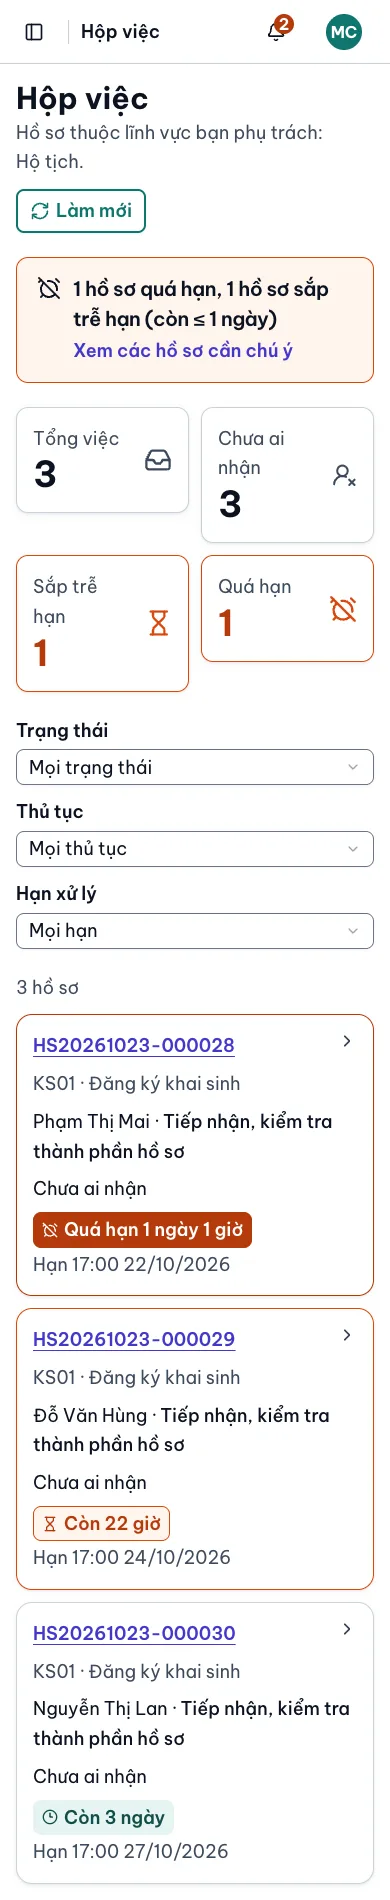
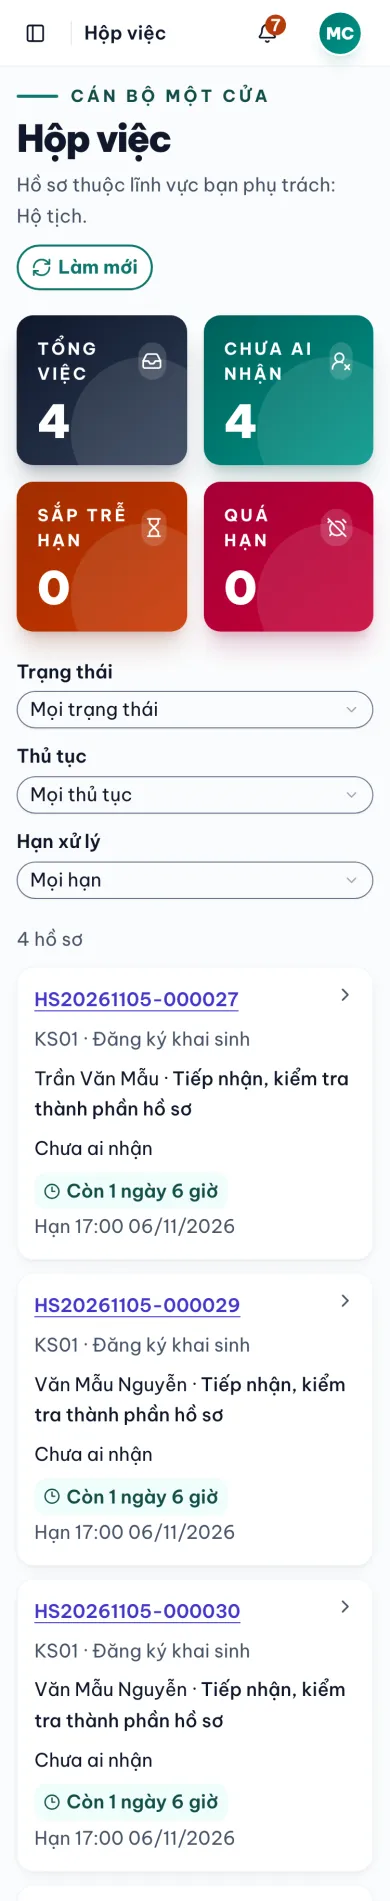
docs(mot-cua): chụp lại hộp việc cổng cán bộ theo giao diện mới (#142)

diff --git a/docs/images/README.md b/docs/images/README.md
@@ -21,7 +21,7 @@
 | `logo/xem-truoc.png` | Ảnh xem trước 1280×640 khi chia sẻ link repo | Settings → Social preview của repo (tải lên bằng tay) | Như trên; ghép bằng ImageMagick |
 | `cong-cong-dan-may-tinh.webp`, `cong-cong-dan-dien-thoai.webp` | Ảnh chụp trang chủ cổng công dân (#52, giao diện #63, làm mới #141) trên máy tính (1280 px) và điện thoại (390 px), dữ liệu giả | `mot-cua/web-cong-dan/README.md` | Chụp bằng Chrome headless từ bản build của đội |
 | `cong-cong-dan-chi-tiet.webp`, `cong-cong-dan-nop-ho-so.webp` | Chi tiết thủ tục KS01 (1280 px) và bước Giấy tờ báo lỗi tại ô (390 px) của cổng công dân (#64, chụp lại ở #141), dữ liệu giả | `mot-cua/web-cong-dan/README.md` | Chụp bằng Chrome headless từ bản chạy của đội |
-| `cong-can-bo-hop-viec.webp`, `cong-can-bo-chi-tiet.webp`, `cong-can-bo-xu-ly.webp`, `cong-can-bo-dien-thoai.webp` | Cổng cán bộ (#55): hộp việc của cán bộ hộ tịch (1440 px), chi tiết hồ sơ KS01, ô xử lý bước thẩm định, hộp việc trên điện thoại (390 px); lõi chạy thật trên máy (`make up`), người dùng tạm và hồ sơ giả | `docs/cong-can-bo.md`, `mot-cua/web-cong-dan/README.md` | Chụp bằng trình duyệt từ bản chạy của đội |
+| `cong-can-bo-hop-viec.webp`, `cong-can-bo-chi-tiet.webp`, `cong-can-bo-xu-ly.webp`, `cong-can-bo-dien-thoai.webp` | Cổng cán bộ (#55): hộp việc của cán bộ (1440 px, chụp lại theo giao diện #142), chi tiết hồ sơ KS01, ô xử lý bước thẩm định, hộp việc trên điện thoại (390 px); lõi chạy thật trên máy (`make up`), người dùng tạm và hồ sơ giả | `docs/cong-can-bo.md`, `mot-cua/web-cong-dan/README.md` | Chụp bằng trình duyệt từ bản chạy của đội |
 | `../media/demo-cong-dan.gif`, `../media/demo-can-bo.gif` | GIF demo (#58, 800 px, 8 khung/giây, ≤ 30 giây): công dân nộp KS01 (thiếu giấy bị chặn, đủ thì nộp) rồi tra cứu tiến độ; cán bộ hộ tịch đăng nhập mật khẩu + OTP, xử lý bước tiếp nhận. Tài khoản mẫu `congdan01`, `canbo01` với mật khẩu, OTP ngẫu nhiên dùng một lần (ô mật khẩu, OTP chỉ hiện dấu chấm), tệp PNG giả một màu | `README.md` mục Demo, trang chủ tài liệu | Quay bằng `make quay-demo` (Playwright + Chromium quay video lõi chạy thật `make up`, FFmpeg tăng tốc và ghép GIF) |
 | `cong-cong-dan-da-nop.webp` | Trang "Đã nộp hồ sơ" sau một lần nộp thật qua APISIX trên máy (lõi `make up`, tài khoản mẫu `congdan01`, tệp giả) (#64) | `mot-cua/web-cong-dan/README.md` | Chụp bằng Chrome headless từ bản chạy của đội |
 

diff --git a/docs/cong-can-bo.md b/docs/cong-can-bo.md
@@ -5,7 +5,7 @@
 Cổng cán bộ (#55) là ứng dụng Tầng 2 cho **cán bộ một cửa, cán bộ chuyên môn, văn thư và lãnh đạo xã**: đăng nhập một lần bằng mật khẩu + OTP, xem hồ sơ thuộc lĩnh vực mình phụ trách, xử lý từng bước của quy trình. Cổng chạy ở **http://localhost:9080/can-bo** sau `make up`, cùng ứng dụng web với cổng công dân ([`mot-cua/web-cong-dan/`](../mot-cua/web-cong-dan/), mã ở `src/can-bo/`) và chỉ gọi lõi qua APISIX.
 
 <p>
-  <img src="images/cong-can-bo-hop-viec.webp" alt="Hộp việc của cán bộ hộ tịch trên máy tính: thanh bên có Hộp việc, Quá hạn, Sắp trễ hạn, Tôi đang xử lý; ô số liệu; bảng hồ sơ với hạn xử lý đổi màu" width="100%">
+  <img src="images/cong-can-bo-hop-viec.webp" alt="Hộp việc của cán bộ một cửa trên máy tính: thanh bên tối có Hộp việc, Quá hạn, Sắp trễ hạn, Tôi đang xử lý; 4 thẻ số liệu nền màu; bảng hồ sơ với hạn xử lý" width="100%">
 </p>
 
 ## Đăng nhập và quyền

diff --git a/mot-cua/web-cong-dan/README.md b/mot-cua/web-cong-dan/README.md
@@ -49,7 +49,7 @@ Cổng 5173 khớp `DXOS_CORS_ORIGINS` mặc định (`.env.example` ở gốc) 
 Tài khoản thử (sau `make demo-users` ở gốc repo, dữ liệu giả): cổng công dân `congdan01`, `congdan02`; cổng cán bộ http://localhost:9080/can-bo (dev: http://localhost:5173/can-bo) `canbo01` (hộ tịch), `canbo02` (chứng thực), `lanhdao01` – lần đầu Keycloak đòi cài OTP. `npm run dev:gia` chỉ có dữ liệu giả cho cổng công dân; cổng cán bộ cần lõi chạy.
 
 <p>
-  <img src="../../docs/images/cong-can-bo-hop-viec.webp" alt="Hộp việc cổng cán bộ trên máy tính: thanh bên, ô số liệu, bảng hồ sơ có hạn xử lý đổi màu" width="68%">
+  <img src="../../docs/images/cong-can-bo-hop-viec.webp" alt="Hộp việc cổng cán bộ trên máy tính: thanh bên tối, 4 thẻ số liệu nền màu, bảng hồ sơ có hạn xử lý" width="68%">
   <img src="../../docs/images/cong-can-bo-dien-thoai.webp" alt="Hộp việc cổng cán bộ trên điện thoại" width="28%">
 </p>
 
